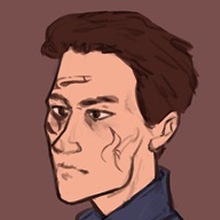
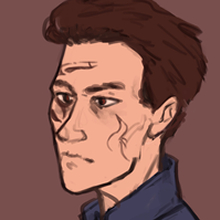
bugfix

diff --git a/public/one-pagers/site-map.html b/public/one-pagers/site-map.html
@@ -1,183 +1,190 @@
 <!DOCTYPE html>
 <html lang="en">
+
 <head>
-    <meta charset="UTF-8">  
+    <meta charset="UTF-8">
     <meta name="viewport" content="width=device-width, initial-scale=1.0">
     <title>Scrim > Site Map</title>
-    
-     
-        <link rel="icon" href="../favicon.ico">
 
-     <link rel="stylesheet" href="../css/guestbook.css">
+
+    <link rel="icon" href="../favicon.ico">
+
+    <link rel="stylesheet" href="../css/guestbook.css">
     <style>
-        
-  :root {
-   --font-fancy: Georgia;
-    --corners: 5px;
-    --background: #ffdab9;
-    --header-text: #f5f5f5;
-    --header-text-shadow: 2px 2px 7px #372c57; 
-    --accent-color-nav: #bfd2f0;
-     --card-text: #f8ecec;
-    --card-color: rgba(1, 1, 3, 0.9); 
-    --card-borders: none;
-    --card-accents: #bfd2f0; 
-    --card-link-hover: #9089cc;
-    
-    --accent-color-sidebar: #b2b9d4;
-    --navbar-text: #f5f5f5;
-    --navbar-bg: #000000;
-    --post-button-bg: #6b3131;
-    --post-button-text: #ffefef;
-     --post-button-hover: #853838;
---post-button-hover-text: #ffffff;
+        :root {
+            --font-fancy: Georgia;
+            --corners: 5px;
+            --background: #ffdab9;
+            --header-text: #f5f5f5;
+            --header-text-shadow: 2px 2px 7px #372c57;
+            --accent-color-nav: #bfd2f0;
+            --card-text: #f8ecec;
+            --card-color: rgba(1, 1, 3, 0.9);
+            --card-borders: none;
+            --card-accents: #bfd2f0;
+            --card-link-hover: #9089cc;
 
-    --scrollbar-accent: #565280;
---scrollbar-bg: #282846;
-    --bg-image: url('../images/the-void-background.jpg');
-    --header-image: url('../images/the-void-banner.jpg');
-        --card-texture: rgba(1, 1, 3, 0.8); 
-     --bg-position: bottom;
-    --bg-attachment:local;
-    --bg-size: cover;
-     --bg-position-header: bottom;
-   --bg-size-header: cover;
+            --accent-color-sidebar: #b2b9d4;
+            --navbar-text: #f5f5f5;
+            --navbar-bg: #000000;
+            --post-button-bg: #6b3131;
+            --post-button-text: #ffefef;
+            --post-button-hover: #853838;
+            --post-button-hover-text: #ffffff;
 
-    --cursor-hover: url('../images/lantern-cursor.png'), auto;
-   --cursor: url('../images/raven-cursor.png'), auto;
-}
+            --scrollbar-accent: #565280;
+            --scrollbar-bg: #282846;
+            --bg-image: url('../images/the-void-background.jpg');
+            --header-image: url('../images/the-void-banner.jpg');
+            --card-texture: rgba(1, 1, 3, 0.8);
+            --bg-position: bottom;
+            --bg-attachment: local;
+            --bg-size: cover;
+            --bg-position-header: bottom;
+            --bg-size-header: cover;
 
-b.general {
-    color:#dbe3e6!important;
-}
+            --cursor-hover: url('../images/lantern-cursor.png'), auto;
+            --cursor: url('../images/raven-cursor.png'), auto;
+        }
+
+        b.general {
+            color: #dbe3e6 !important;
+        }
     </style>
 </head>
+
 <body>
-<div class="site-layout"> 
-   
+    <div class="site-layout">
+
 
         <header>
-            <h1>Scrimtas</h1> 
+            <h1>Scrimtas</h1>
         </header>
-  
-       
-       
-  <!--Navbar-->
-         <nav>
-                        <ul>
+
+
+
+        <!--Navbar-->
+        <nav>
+            <ul>
                 <li><a href="../index.html">Home page</a></li>
                 <li><a href="../one-pagers/guestbook.html">Guestbook</a></li>
                 <li><a href="../one-pagers/site-map.html ">Site map</a></li>
                 <li><a href="https://neocities.org/site/scrimtas">Neocities profile</a></li>
             </ul>
         </nav>
- <!--Navbar end-->
-     
-         <main>
-          <!-- Card 1 -->
-              <div class="card">
+        <!--Navbar end-->
+
+        <main>
+            <!-- Card 1 -->
+            <div class="card">
                 <h2>A sitemap</h2>
-                                <hr>
-                                <div>    
-                                    <p class="right"><i>– This place is the end of all things. And the beginning.</i></p>           
-  
-<ul>
-    <li><b><a href="../index.html">Home page</a></b></li>
- <ul>
-                <li><b class="general"> General info </b></li>
-                <ul>
-                <li><b><a href="../one-pagers/about-me.html">About me!  </a></b></li>
-                <ul>
-                <li><b><a href="../one-pagers/kinlist.html">Kinlist</a></b></li>
-                </ul>
-                <li><b><a href="../one-pagers/interests.html">Interests</a></b></li>
- <ul>
-                <li><b><a href="../one-pagers/fave-chars.html">Favorite characters</a></b></li>
- 
-                </ul>
-    </ul>
+                <hr>
+                <div>
+                    <p class="right"><i>– This place is the end of all things. And the beginning.</i></p>
 
-    </ul>
-    <ul>
-                <li><b class="general"> Blog </b></li>
-                <ul>
-                <li><b><a href="../blog-posts/blog.html">Dear diary,  </a></b></li>
-                <li><b><a href="../media/media-general.html">Media yaps  </a></b></li>
-                <li><b><a href="../albums/albums-general.html">Albums superhell  </a></b></li>
- <ul>
-                <li><b><a href="../albums/fave-songs.html">Fav songs ramblings</a></b></li>
- </ul>
-    </ul>
-
-    </ul>
-     <ul>
-                <li><b class="general"> Creative corner </b></li>
-                <ul>
-                <li><b><a href="../gallery/gallery-showcase.html">Art gallery</a></b></li>
-                <li><b><a href="../one-pagers/oc-general-page.html">My characters / Stories directory</a></b>  </li>
-                <ul>
-                <li><b><a href="../ocs-pages/char-roster.html">Characters roster</a></b>    </li>
                     <ul>
-                <li><b><a href="../ocs-pages/template.html">Lore page template</a></b>   </li>
-                <li><b><a href="../ocs-pages/folder-sona.html">Sona folder</a></b>   </li>
-<ul> 
-                <li><b><a href="../ocs-pages/scrim.html">Detective's page</a></b>   </li>
-                </ul>
-                                <li><b><a href="../ocs-pages/folder-fnv.html">Fallout New Vegas folder</a></b>   </li>
+                        <li><b><a href="../index.html">Home page</a></b></li>
+                        <ul>
+                            <li><b class="general"> General info </b></li>
+                            <ul>
+                                <li><b><a href="../one-pagers/about-me.html">About me! </a></b></li>
+                                <ul>
+                                    <li><b><a href="../one-pagers/kinlist.html">Kinlist</a></b></li>
+                                </ul>
+                                <li><b><a href="../one-pagers/interests.html">Interests</a></b></li>
+                                <ul>
+                                    <li><b><a href="../one-pagers/fave-chars.html">Favorite characters</a></b></li>
 
-                </ul>
-                </ul>
-                <li><b><a href="../one-pagers/vibes.html">Vibes checkpoint </a></b>  </li>
- 
-    </ul>
+                                </ul>
+                            </ul>
 
-    </ul>
+                        </ul>
+                        <ul>
+                            <li><b class="general"> Blog </b></li>
+                            <ul>
+                                <li><b><a href="../blog-posts/blog.html">Dear diary, </a></b></li>
+                                <li><b><a href="../media/media-general.html">Media yaps </a></b></li>
+                                <li><b><a href="../albums/albums-general.html">Albums superhell </a></b></li>
+                                <ul>
+                                    <li><b><a href="../albums/fave-songs.html">Fav songs ramblings</a></b></li>
+                                </ul>
+                            </ul>
 
-       <ul>
-                <li><b class="general"> Resources </b></li>
-                <ul>
-                <li><b><a href="../one-pagers/graphics-credits.html">Graphics credits </a></b></li>
-                <li><b><a href="../one-pagers/resources.html">Resources </a></b></li>
-  
-    </ul>
+                        </ul>
+                        <ul>
+                            <li><b class="general"> Creative corner </b></li>
+                            <ul>
+                                <li><b><a href="../gallery/gallery-showcase.html">Art gallery</a></b></li>
+                                <li><b><a href="../one-pagers/oc-general-page.html">My characters / Stories
+                                            directory</a></b> </li>
+                                <ul>
+                                    <li><b><a href="../ocs-pages/char-roster.html">Characters roster</a></b> </li>
+                                    <ul>
+                                        <li><b><a href="../ocs-pages/template.html">Lore page template</a></b> </li>
+                                        <li><b><a href="../ocs-pages/folder-sona.html">Sona folder</a></b> </li>
+                                        <ul>
+                                            <li><b><a href="../ocs-pages/scrim.html">Detective </a></b> </li>
+                                        </ul>
+                                        <li><b><a href="../ocs-pages/folder-fnv.html">Fallout New Vegas folder</a></b>
+                                        </li>
+                                        <li><b><a href="../ocs-pages/folder-fnv.html">Dragon age folder</a></b> </li>
+                                        <ul>
+                                            <li><b><a href="../ocs-pages/scrim.html">Tillen Amell</a></b> </li>
+                                        </ul>
+                                    </ul>
+                                </ul>
+                                <li><b><a href="../one-pagers/vibes.html">Vibes checkpoint </a></b> </li>
 
-    </ul>
- 
-            <li><b><a href="../one-pagers/guestbook.html">Guestbook</a></b></li>
+                            </ul>
 
-              <li><b><a href="../one-pagers/site-map.html">Site map (you're here!)</a></b></li>
-            <li><b><a href="../one-pagers/updatelog.html">Update Log</a></b></li>
+                        </ul>
 
-            <li><b><a href="../not_found.html">Not found / Error page</a></b></li>
-</ul>
+                        <ul>
+                            <li><b class="general"> Resources </b></li>
+                            <ul>
+                                <li><b><a href="../one-pagers/graphics-credits.html">Graphics credits </a></b></li>
+                                <li><b><a href="../one-pagers/resources.html">Resources </a></b></li>
 
-         <hr class="post-bottom">
-<span class="date">/ last upd. 3 nov 2026</span>
-<hr>
- 
-                
- 
- 
-               
-         </div>
-                
-                 
-            </div> 
-             <!-- Card 1 end -->
-  
-            
+                            </ul>
 
-        </main> 
- 
+                        </ul>
 
-        
+                        <li><b><a href="../one-pagers/guestbook.html">Guestbook</a></b></li>
 
- 
+                        <li><b><a href="../one-pagers/site-map.html">Site map (you're here!)</a></b></li>
+                        <li><b><a href="../one-pagers/updatelog.html">Update Log</a></b></li>
+
+                        <li><b><a href="../not_found.html">Not found / Error page</a></b></li>
+                    </ul>
+
+                    <hr class="post-bottom">
+                    <span class="date">/ last upd. 5 nov 2026</span>
+                    <hr>
+
+
+
+
+
+                </div>
+
+
+            </div>
+            <!-- Card 1 end -->
+
+
+
+        </main>
+
+
+
+
+
         <footer>
             <p>Scrimtas (2026-...) via Neocities</p>
         </footer>
-     
-</div>
+
+    </div>
 
 </body>
+
 </html>

diff --git a/public/ocs-pages/tillen-da.html b/public/ocs-pages/tillen-da.html
@@ -141,7 +141,7 @@
 
                             <li class="leaf"><span class="sidebar-accent">Go back to...</span> </li>
                             <ul>
-                                <li class="list-square"><a class="disabled" href=" ">Setting folder</a></li>
+                                <li class="list-square"><a href="folder-da.html">Dragon Age OCs</a></li>
                                 <li class="list-square"><a href="../one-pagers/oc-general-page.html">Stories
                                         directory</a></li>
                                 <li class="list-square"><a href="char-roster.html">All characters </a></li>
@@ -150,8 +150,8 @@
 
                             <li class="leaf"><span class="sidebar-accent">Alternative versions</span> </li>
                             <ul>
-                                <li class="list-square"><a class="disabled" href=" ">Anthro</a></li>
-                                <li class="list-square"><a class="disabled" href=" ">Another setting</a></li>
+                                <li class="list-square"><a target="_blank"
+                                        href="https://toyhou.se/4456398.tyler/4556228.anthro">Anthro</a></li>
                             </ul>
                         </ul>
                     </div>
@@ -361,7 +361,8 @@
                         <li><b>Scars:</b> Nothing specified, although he obviously has them. Feel free to draw him with
                             random scars/scratches on his body.</li>
                         <hr>
-                        <li><b>Hair:</b> Thick straight dark brown hair, combed back neatly. He puts in too many effort
+                        <li><b>Hair:</b> Thick straight dark brown hair, combed up and back neatly. He puts in too many
+                            effort
                             for his haircut to look flawless. </li>
                         <hr>
                         <li><b>Clothing style:</b></li>

diff --git a/public/ocs-pages/scrim.html b/public/ocs-pages/scrim.html
@@ -74,7 +74,7 @@
 
                             <li class="leaf"><span class="sidebar-accent">Go back to...</span> </li>
                             <ul>
-                                <li class="list-square"><a class="disabled" href=" ">Setting folder</a></li>
+                                <li class="list-square"><a href="../ocs-pages/folder-sona.html">Sona folder</a></li>
                                 <li class="list-square"><a href="../one-pagers/oc-general-page.html">Stories
                                         directory</a></li>
                                 <li class="list-square"><a href="char-roster.html">All characters </a></li>
